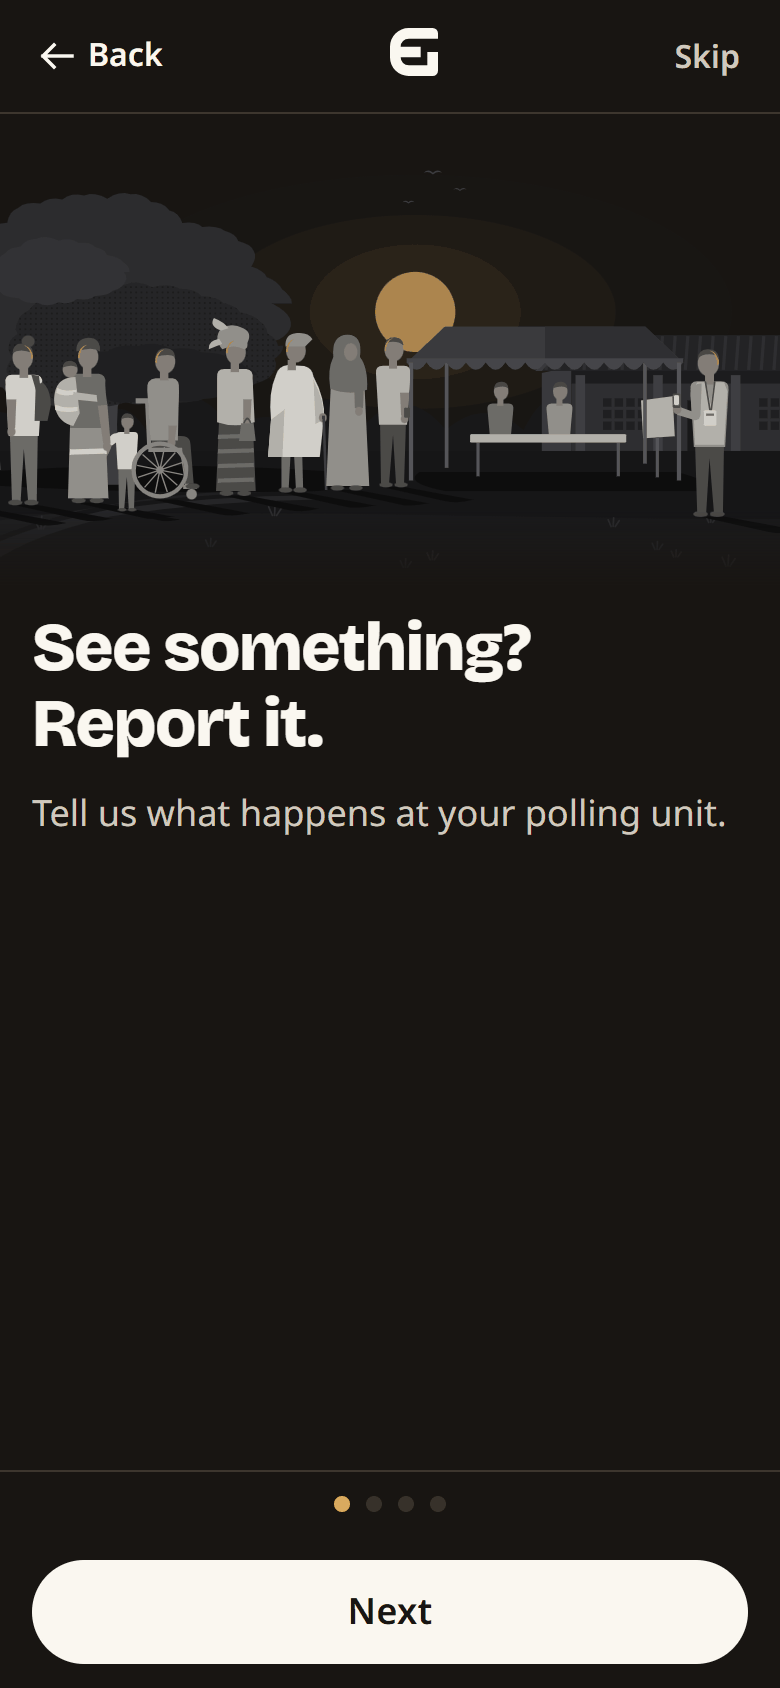
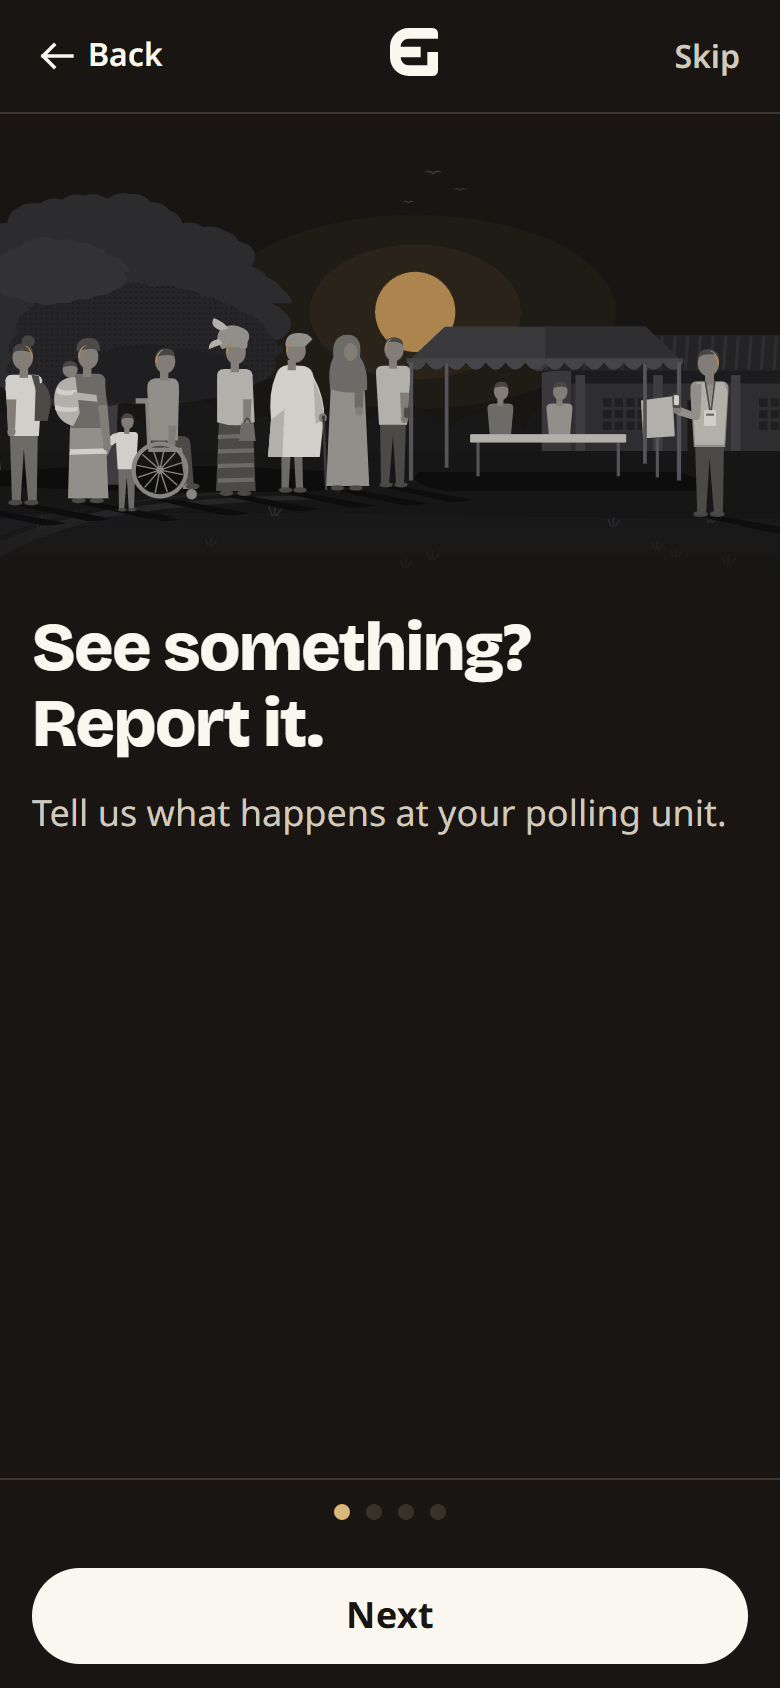
Polish onboarding next button and checklist progress subtitle

Changed region(s): [[0.0615, 0.8626, 0.9538, 0.9858]]

diff --git a/frontend/scripts/capture-shots.ts b/frontend/scripts/capture-shots.ts
@@ -175,6 +175,25 @@ async function main() {
 
     // 08-polling-day
     console.log("  -> 08-polling-day");
+    await page.evaluate(({ observerCode }) => {
+      const today = new Intl.DateTimeFormat("en-CA", { timeZone: "Africa/Lagos", year: "numeric", month: "2-digit", day: "2-digit" }).format(new Date());
+      const key = `eg.checklist.${observerCode}.${today}`;
+      const data = {
+        unit: {
+          code: "001",
+          label: "St. Peter's Primary School",
+          state_code: "LA",
+          lga_code: "01",
+          ward_code: "01",
+          ward_name: "Ward 1",
+        },
+        stages: {
+          arrival: { answers: {}, state: "received" },
+          opening: { answers: {}, state: "received" },
+        },
+      };
+      window.localStorage.setItem(key, JSON.stringify(data));
+    }, { observerCode: code });
     await page.goto("http://127.0.0.1:3361/o/checklist");
     await page.getByTestId("o15").waitFor({ state: "visible" });
     await page.waitForTimeout(400);
@@ -205,6 +224,56 @@ ReviewEvent.objects.create(organisation=r.organisation, report=r, action=ReviewE
 
     await context.close();
   }
+
+  // Also capture 3 screens at 360x740
+  console.log("\nCapturing 360x740 responsive screens");
+  const ctx360 = await browser.newContext({
+    baseURL: "http://127.0.0.1:3361",
+    viewport: { width: 360, height: 740 },
+    colorScheme: "light",
+    deviceScaleFactor: 2,
+  });
+  const p360 = await ctx360.newPage();
+  await p360.addInitScript(() => {
+    document.documentElement.setAttribute("data-theme", "light");
+    window.localStorage.setItem("eg.theme", "light");
+    window.localStorage.setItem("eg.locale", "en");
+    window.localStorage.setItem("eg.test.ready", "1");
+    window.localStorage.setItem("eg.noticeSeen", "2026-11-22");
+  });
+
+  // 1. Splash at 360
+  await p360.goto("http://127.0.0.1:3361/o/start?splash=1");
+  await p360.waitForTimeout(500);
+  await shot(p360, join(SHOTS_DIR, "01-splash-360.png"));
+
+  // Sign in observer for home & receipt
+  const { code: code360, pin: setupPin360 } = server("issue");
+  await p360.goto("http://127.0.0.1:3361/o/start?view=sign-in");
+  await p360.getByTestId("o03-code").fill(code360);
+  await p360.getByTestId("o03-pin").fill(setupPin360);
+  await p360.getByTestId("o03-submit").click();
+  await p360.getByTestId("o03-set-pin").waitFor({ state: "visible", timeout: 10000 });
+  await p360.getByTestId("o03-newpin").fill("482913");
+  await p360.getByTestId("o03-confirmpin").fill("482913");
+  await p360.getByTestId("o03-setpin-submit").click();
+  await p360.waitForURL(/\/o$/);
+  await p360.getByTestId("o04").waitFor({ state: "visible" });
+
+  // 2. Home at 360
+  await p360.waitForTimeout(300);
+  await shot(p360, join(SHOTS_DIR, "05-home-360.png"));
+
+  // 3. Receipt at 360
+  const samplePhoto360 = photo("sample360.jpg", 800, 600, 6);
+  await fillReport(p360 as unknown as Page, { photoPath: samplePhoto360 });
+  await p360.getByTestId("o11-send").click();
+  await p360.waitForURL(/\/o\/reports\/[0-9a-f-]{36}\?just-sent=1/, { timeout: 30_000 });
+  await p360.getByTestId("receipt-card-code").waitFor({ state: "visible" });
+  await p360.waitForTimeout(500);
+  await shot(p360, join(SHOTS_DIR, "07-receipt-360.png"));
+
+  await ctx360.close();
 
   await browser.close();
   console.log("\nAll 11 screens captured in light and dark modes!");

diff --git a/frontend/app/(observer)/o/_views/ChecklistViews.tsx b/frontend/app/(observer)/o/_views/ChecklistViews.tsx
@@ -56,9 +56,9 @@ export function ChecklistListView({ offline, stages, unitLabel, onBack }: Checkl
       <div className={styles.screen}>
         <div className={s.checklistHeader}>
           <h1 className={s.checklistTitle}>{t("o15.title")}</h1>
-          <p className={s.checklistSubtitle}>
+          <p className={s.checklistSubtitle} data-testid="o15-subtitle">
             {unitLabel ? `${unitLabel} · ` : ""}
-            {doneCount} of {stages.length} stages done
+            {t("o15.progress", { done: doneCount, total: stages.length }) || `${doneCount} of ${stages.length} stages done`}
           </p>
         </div>
 

diff --git a/frontend/app/(observer)/o/_views/StartViews.tsx b/frontend/app/(observer)/o/_views/StartViews.tsx
@@ -169,7 +169,7 @@ export function NoticeView({ onBack, onContinue, readOnly, offline, banner }: No
             <span className={slide === 2 ? styles.dotActive : styles.dot} />
             <span className={styles.dot} />
           </div>
-          <Button block onClick={handleNext} data-testid="o02-next">
+          <Button variant="primary" block onClick={handleNext} data-testid="o02-next">
             {t("o02.next") || "Next"}
           </Button>
         </div>

diff --git a/frontend/app/(observer)/o/checklist/ChecklistScreens.tsx b/frontend/app/(observer)/o/checklist/ChecklistScreens.tsx
@@ -65,7 +65,8 @@ export function ChecklistListScreen() {
   );
 
   if (!session) return null;
-  return <ChecklistListView offline={offline} stages={stages} unitLabel={record.unit?.label} onBack={() => router.push("/o")} />;
+  const unitLabel = record.unit?.label ?? null;
+  return <ChecklistListView offline={offline} stages={stages} unitLabel={unitLabel} onBack={() => router.push("/o")} />;
 }
 
 /* ---------- Stage form ---------- */

diff --git a/frontend/app/(observer)/o/_components/observer.module.css b/frontend/app/(observer)/o/_components/observer.module.css
@@ -253,6 +253,14 @@
   width: 100%;
 }
 
+.onboardingActions button {
+  background: var(--ink) !important;
+  color: var(--on-ink) !important;
+  border-color: var(--ink) !important;
+  font-weight: 700;
+  min-height: 48px;
+}
+
 .dots {
   display: flex;
   align-items: center;
